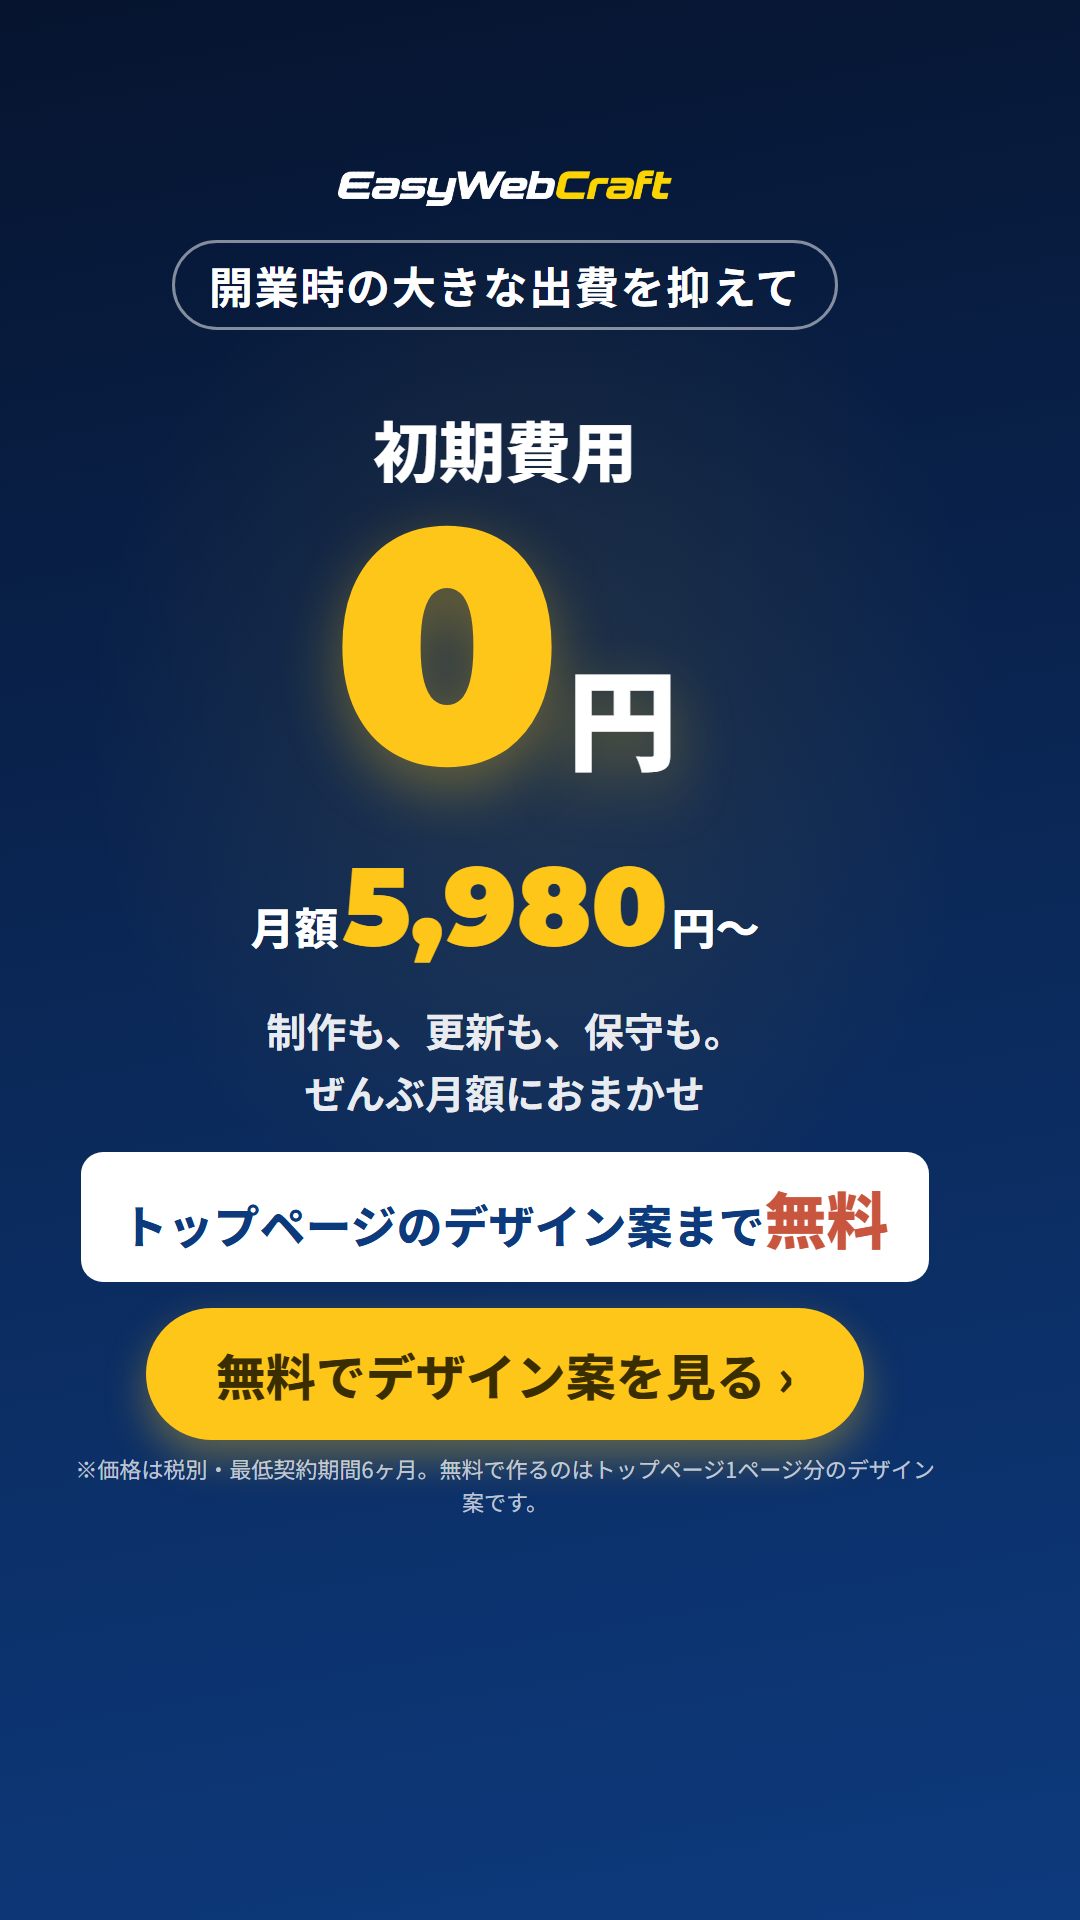
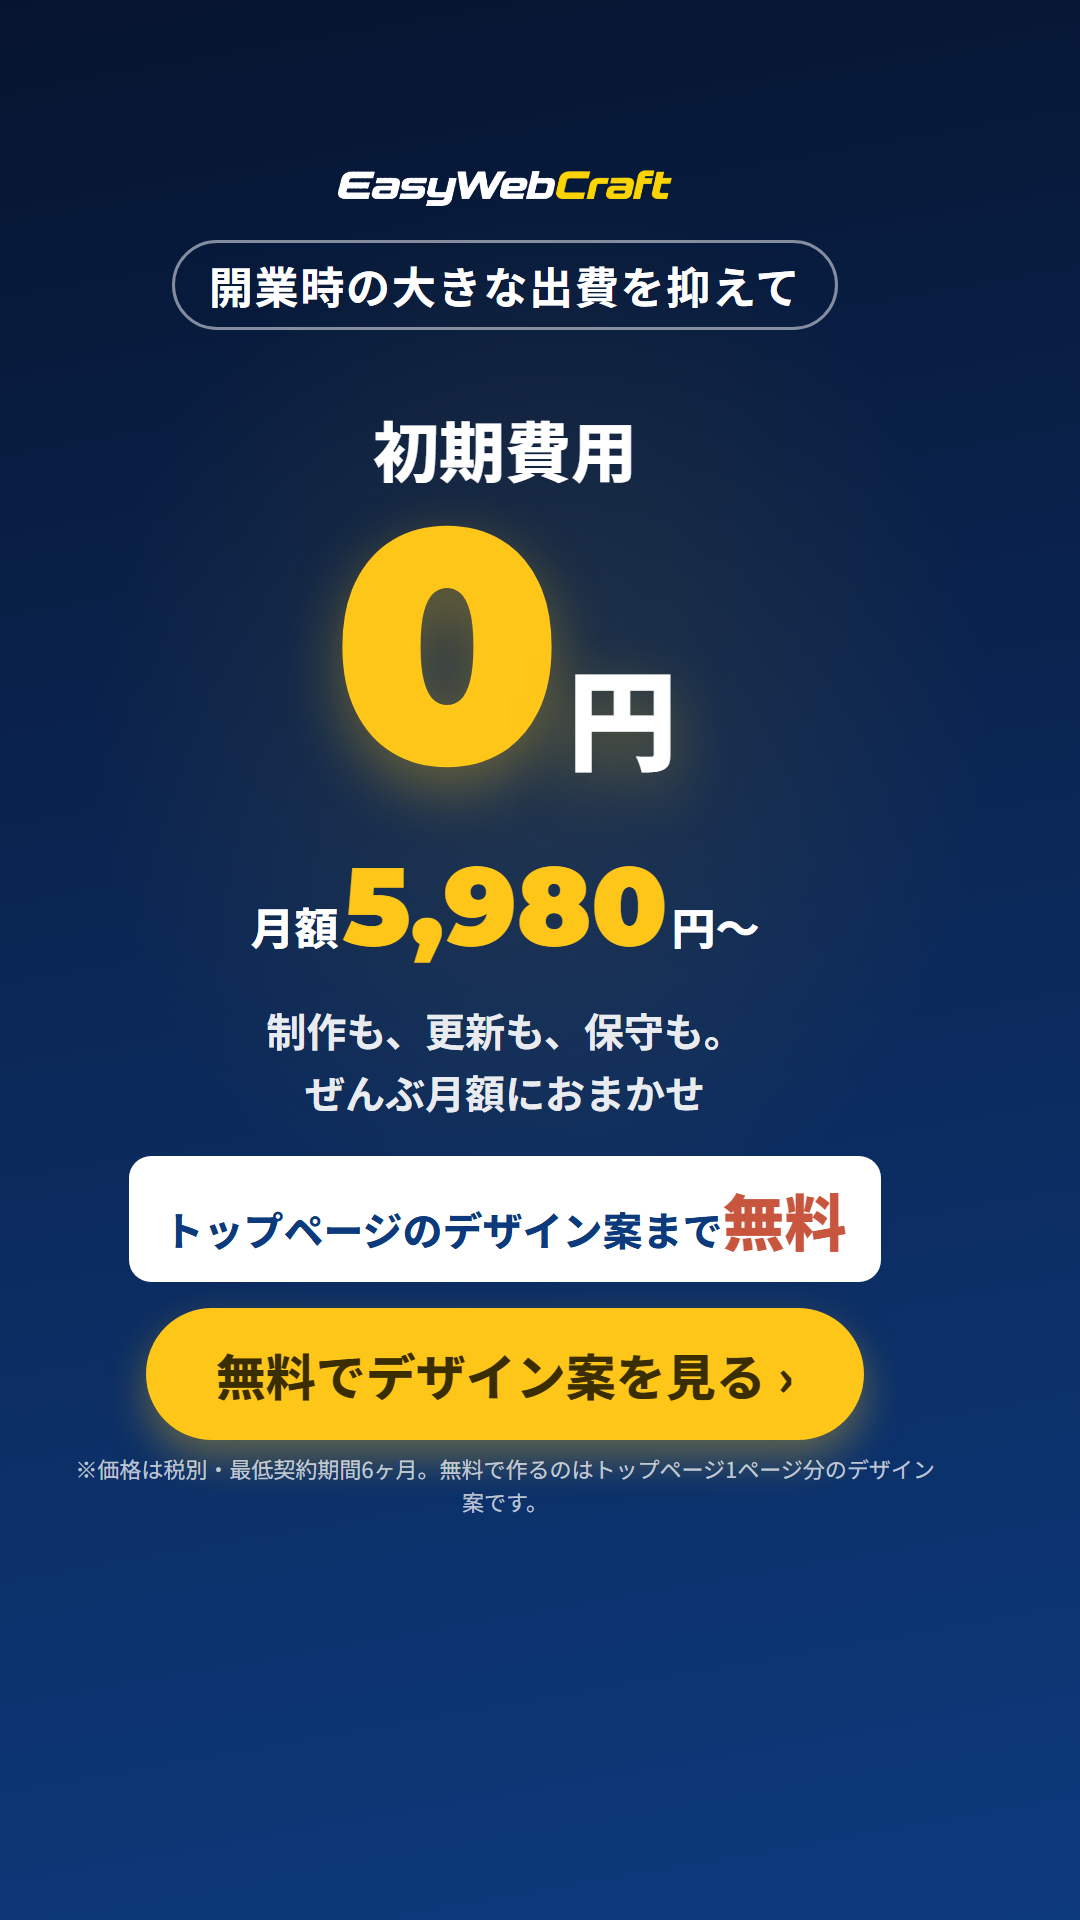
配信の優先順に整理し、無料の範囲を正確に
- 一覧を 1巡目（F基準・B・D・E・G・I）／2巡目（A・C・H・J）／予備（+1〜+4）に並べ替え
- 広告文案を2行程度に短縮
- 全広告の「デザイン案まで無料」を「トップページのデザイン案まで無料」に
- B:「今からまとめて任せられます」→「今からでも大丈夫」
- テストの進め方に、クリック→LP閲覧→フォーム開始→送信まで比べることを追記

Claude-Session: https://claude.ai/code/session_01G65TiHfa1BUco43NvNDLJF

Changed region(s): [[0.0611, 0.5938, 0.8861, 0.6875]]

diff --git a/index.html b/index.html
@@ -24,6 +24,7 @@ h2{font-size:1.1rem; margin:34px 0 14px}
 .tgt{font-size:.78rem; color:var(--muted); font-weight:700}
 .cap{font-size:.8rem}
 .cap span{font-weight:700; margin-right:4px}
+.base{display:inline-block; margin-left:6px; background:#1a8f3c; color:#fff; border-radius:999px; padding:0 8px; font-size:.72rem}
 .dl{font-size:.78rem; color:var(--muted)}
 .dl a{color:var(--navy); font-weight:700}
 .box{background:var(--card); border:1px solid var(--line); border-radius:14px; padding:16px 20px; margin-top:30px}
@@ -41,108 +42,115 @@ code{background:var(--bg); padding:0 5px; border-radius:4px}
     <a href="ogp.html">OGP画像のHTML</a>
   </div>
 
-  <h2>対象別の10本（A〜J）</h2>
+  <h2>1巡目：最初に配信する6本</h2>
+  <p class="lead">Fを基準に、B・D・E・G・Iの反応を比べる。</p>
   <div class="grid">
       <article class="card">
-        <a href="out/ad03.png" target="_blank" rel="noopener"><img src="jpg/ad03.jpg" alt="ホームページ、開業前に用意しませんか？" loading="lazy" width="1080" height="1920"></a>
-        <p class="no"><b>A</b>ホームページ、開業前に用意しませんか？</p>
-        <p class="tgt">開業前</p>
-        <p class="cap"><span>広告文案</span>開業前にホームページを。美容室・飲食店・こども支援など、業種に合わせて作ります。</p>
-        <p class="dl"><a href="out/ad03.png" download>PNGを保存</a>（ad03.png）</p>
+        <a href="out/ad01.png" target="_blank" rel="noopener"><img src="jpg/ad01.jpg" alt="ホームページのデザイン案を無料で作ります" loading="lazy" width="1080" height="1920"></a>
+        <p class="no"><b>F</b>ホームページのデザイン案を無料で作ります</p>
+        <p class="tgt">HP未作成（LPと完全一致）<span class="base">基準</span></p>
+        <p class="cap"><span>広告文案</span><br>開業前・開業したばかりの方へ。<br>デザイン案を無料で作ります。</p>
+        <p class="dl"><a href="out/ad01.png" download>PNGを保存</a>（ad01.png）</p>
       </article>
       <article class="card">
         <a href="out/ad11.png" target="_blank" rel="noopener"><img src="jpg/ad11.jpg" alt="開業したけど、HPまだ作ってない？" loading="lazy" width="1080" height="1920"></a>
         <p class="no"><b>B</b>開業したけど、HPまだ作ってない？</p>
         <p class="tgt">開業直後</p>
-        <p class="cap"><span>広告文案</span>開業したけど、HPまだ作ってない？ 今からでもまとめて任せられます。デザイン案まで無料。</p>
+        <p class="cap"><span>広告文案</span><br>開業したけどHPがない方へ。<br>今からでも大丈夫。</p>
         <p class="dl"><a href="out/ad11.png" download>PNGを保存</a>（ad11.png）</p>
-      </article>
-      <article class="card">
-        <a href="out/ad12.png" target="_blank" rel="noopener"><img src="jpg/ad12.jpg" alt="そろそろホームページ、作りませんか？" loading="lazy" width="1080" height="1920"></a>
-        <p class="no"><b>C</b>そろそろホームページ、作りませんか？</p>
-        <p class="tgt">開業1〜3ヶ月</p>
-        <p class="cap"><span>広告文案</span>開業して1〜3ヶ月。お店が回りはじめた今が、ホームページの作りどきです。</p>
-        <p class="dl"><a href="out/ad12.png" download>PNGを保存</a>（ad12.png）</p>
       </article>
       <article class="card">
         <a href="out/ad07.png" target="_blank" rel="noopener"><img src="jpg/ad07.jpg" alt="Instagramだけで大丈夫？" loading="lazy" width="1080" height="1920"></a>
         <p class="no"><b>D</b>Instagramだけで大丈夫？</p>
         <p class="tgt">Instagram中心</p>
-        <p class="cap"><span>広告文案</span>料金・営業時間・場所がひと目で分かるホームページを、開業時から。</p>
+        <p class="cap"><span>広告文案</span><br>Instagramだけで営業中の方へ。<br>公式HPも準備しませんか？</p>
         <p class="dl"><a href="out/ad07.png" download>PNGを保存</a>（ad07.png）</p>
       </article>
       <article class="card">
         <a href="out/ad13.png" target="_blank" rel="noopener"><img src="jpg/ad13.jpg" alt="名刺に載せるホームページ、ありますか？" loading="lazy" width="1080" height="1920"></a>
         <p class="no"><b>E</b>名刺に載せるホームページ、ありますか？</p>
         <p class="tgt">名刺作成済み</p>
-        <p class="cap"><span>広告文案</span>名刺に載せるホームページ、ありますか？ URLから事業の中身まで伝わるように。</p>
+        <p class="cap"><span>広告文案</span><br>名刺を作ったけどHPがない方へ。<br>URLから事業内容を伝えられます。</p>
         <p class="dl"><a href="out/ad13.png" download>PNGを保存</a>（ad13.png）</p>
-      </article>
-      <article class="card">
-        <a href="out/ad01.png" target="_blank" rel="noopener"><img src="jpg/ad01.jpg" alt="ホームページのデザイン案を無料で作ります" loading="lazy" width="1080" height="1920"></a>
-        <p class="no"><b>F</b>ホームページのデザイン案を無料で作ります</p>
-        <p class="tgt">HP未作成（LPと完全一致）★第一候補</p>
-        <p class="cap"><span>広告文案</span>開業前・開業したばかりの方へ。ホームページのデザイン案を無料でお作りします。</p>
-        <p class="dl"><a href="out/ad01.png" download>PNGを保存</a>（ad01.png）</p>
       </article>
       <article class="card">
         <a href="out/ad06.png" target="_blank" rel="noopener"><img src="jpg/ad06.jpg" alt="文章が書けない → それでも大丈夫です" loading="lazy" width="1080" height="1920"></a>
         <p class="no"><b>G</b>文章が書けない → それでも大丈夫です</p>
         <p class="tgt">文章が苦手</p>
-        <p class="cap"><span>広告文案</span>文章が書けない、写真がない。それでも大丈夫。話を聞いて下書きします。</p>
+        <p class="cap"><span>広告文案</span><br>文章も写真もなくて大丈夫。<br>話を聞いて下書きします。</p>
         <p class="dl"><a href="out/ad06.png" download>PNGを保存</a>（ad06.png）</p>
-      </article>
-      <article class="card">
-        <a href="out/ad04.png" target="_blank" rel="noopener"><img src="jpg/ad04.jpg" alt="初期費用0円" loading="lazy" width="1080" height="1920"></a>
-        <p class="no"><b>H</b>初期費用0円</p>
-        <p class="tgt">費用が不安</p>
-        <p class="cap"><span>広告文案</span>開業時の大きな出費を抑えて。初期費用0円、月額5,980円〜（税別）。</p>
-        <p class="dl"><a href="out/ad04.png" download>PNGを保存</a>（ad04.png）</p>
       </article>
       <article class="card">
         <a href="out/ad02.png" target="_blank" rel="noopener"><img src="jpg/ad02.jpg" alt="いきなり契約しなくてOK" loading="lazy" width="1080" height="1920"></a>
         <p class="no"><b>I</b>いきなり契約しなくてOK</p>
         <p class="tgt">制作会社が不安</p>
-        <p class="cap"><span>広告文案</span>相談もヒアリングもデザイン案も0円。見てから決めてください。</p>
+        <p class="cap"><span>広告文案</span><br>いきなり契約しなくてOK。<br>まずデザイン案を見てください。</p>
         <p class="dl"><a href="out/ad02.png" download>PNGを保存</a>（ad02.png）</p>
+      </article>
+  </div>
+
+  <h2>2巡目：テスト枠の4本</h2>
+  <p class="lead">1巡目の結果を見て入れ替える。Hは価格訴求、JはAと対象が近いのでどちらか一方でも可。</p>
+  <div class="grid">
+      <article class="card">
+        <a href="out/ad03.png" target="_blank" rel="noopener"><img src="jpg/ad03.jpg" alt="ホームページ、開業前に用意しませんか？" loading="lazy" width="1080" height="1920"></a>
+        <p class="no"><b>A</b>ホームページ、開業前に用意しませんか？</p>
+        <p class="tgt">開業前</p>
+        <p class="cap"><span>広告文案</span><br>開業前にHPを準備。<br>デザイン案を無料で作ります。</p>
+        <p class="dl"><a href="out/ad03.png" download>PNGを保存</a>（ad03.png）</p>
+      </article>
+      <article class="card">
+        <a href="out/ad12.png" target="_blank" rel="noopener"><img src="jpg/ad12.jpg" alt="そろそろホームページ、作りませんか？" loading="lazy" width="1080" height="1920"></a>
+        <p class="no"><b>C</b>そろそろホームページ、作りませんか？</p>
+        <p class="tgt">開業1〜3ヶ月</p>
+        <p class="cap"><span>広告文案</span><br>開業1〜3ヶ月。<br>そろそろHPを作りませんか？</p>
+        <p class="dl"><a href="out/ad12.png" download>PNGを保存</a>（ad12.png）</p>
+      </article>
+      <article class="card">
+        <a href="out/ad04.png" target="_blank" rel="noopener"><img src="jpg/ad04.jpg" alt="初期費用0円" loading="lazy" width="1080" height="1920"></a>
+        <p class="no"><b>H</b>初期費用0円</p>
+        <p class="tgt">価格訴求のテスト枠</p>
+        <p class="cap"><span>広告文案</span><br>開業時の出費を抑えて。<br>初期費用0円・月額5,980円〜</p>
+        <p class="dl"><a href="out/ad04.png" download>PNGを保存</a>（ad04.png）</p>
       </article>
       <article class="card">
         <a href="out/ad14.png" target="_blank" rel="noopener"><img src="jpg/ad14.jpg" alt="開業前から相談OK" loading="lazy" width="1080" height="1920"></a>
         <p class="no"><b>J</b>開業前から相談OK</p>
-        <p class="tgt">開業準備中</p>
-        <p class="cap"><span>広告文案</span>屋号もサービス内容もまだ整理中でも大丈夫。開業日から逆算して準備します。</p>
+        <p class="tgt">開業準備中（Aと近い）</p>
+        <p class="cap"><span>広告文案</span><br>屋号が未定でも大丈夫。<br>開業前から相談できます。</p>
         <p class="dl"><a href="out/ad14.png" download>PNGを保存</a>（ad14.png）</p>
       </article>
   </div>
 
   <h2>予備の4本</h2>
+  <p class="lead">2巡目以降、比較用に使う。+4（価格のみ）は後回し。</p>
   <div class="grid">
       <article class="card">
         <a href="out/ad05.png" target="_blank" rel="noopener"><img src="jpg/ad05.jpg" alt="「何を載せればいいかわからない」" loading="lazy" width="1080" height="1920"></a>
         <p class="no"><b>+1</b>「何を載せればいいかわからない」</p>
-        <p class="tgt">予備</p>
-        <p class="cap"><span>広告文案</span>何を載せればいいかわからなくても大丈夫。お話をうかがって一緒に整理します。</p>
+        <p class="tgt">構成の悩み（Gと比較）</p>
+        <p class="cap"><span>広告文案</span><br>何を載せればいいか分からない方へ。<br>一緒に整理します。</p>
         <p class="dl"><a href="out/ad05.png" download>PNGを保存</a>（ad05.png）</p>
       </article>
       <article class="card">
         <a href="out/ad08.png" target="_blank" rel="noopener"><img src="jpg/ad08.jpg" alt="開業すると、こんなことが起こります" loading="lazy" width="1080" height="1920"></a>
         <p class="no"><b>+2</b>開業すると、こんなことが起こります</p>
-        <p class="tgt">予備</p>
-        <p class="cap"><span>広告文案</span>名刺→Instagram→検索→「公式サイトはないの？」。事業内容を確認できるホームページがあると安心です。</p>
+        <p class="tgt">説明寄り</p>
+        <p class="cap"><span>広告文案</span><br>「公式サイトはないの？」と<br>聞かれる前に。</p>
         <p class="dl"><a href="out/ad08.png" download>PNGを保存</a>（ad08.png）</p>
       </article>
       <article class="card">
         <a href="out/ad09.png" target="_blank" rel="noopener"><img src="jpg/ad09.jpg" alt="「SNSだけ」から「公式サイトがある」へ" loading="lazy" width="1080" height="1920"></a>
         <p class="no"><b>+3</b>「SNSだけ」から「公式サイトがある」へ</p>
-        <p class="tgt">予備</p>
-        <p class="cap"><span>広告文案</span>「SNSだけ」から「公式サイトがある」へ。トップページのデザイン案まで無料です。</p>
+        <p class="tgt">改善後の姿（Dと比較）</p>
+        <p class="cap"><span>広告文案</span><br>SNSだけから、<br>公式サイトがある状態へ。</p>
         <p class="dl"><a href="out/ad09.png" download>PNGを保存</a>（ad09.png）</p>
       </article>
       <article class="card">
         <a href="out/ad10.png" target="_blank" rel="noopener"><img src="jpg/ad10.jpg" alt="ホームページが1日約200円から" loading="lazy" width="1080" height="1920"></a>
         <p class="no"><b>+4</b>ホームページが1日約200円から</p>
-        <p class="tgt">予備</p>
-        <p class="cap"><span>広告文案</span>ホームページが1日約200円から（月額5,980円・税別）。制作も更新もおまかせ。</p>
+        <p class="tgt">価格のみ・後回し</p>
+        <p class="cap"><span>広告文案</span><br>ホームページが1日約200円から。<br>（月額5,980円・税別）</p>
         <p class="dl"><a href="out/ad10.png" download>PNGを保存</a>（ad10.png）</p>
       </article>
   </div>
@@ -150,9 +158,10 @@ code{background:var(--bg); padding:0 5px; border-radius:4px}
   <div class="box">
     <h2 style="margin-top:0">テストの進め方</h2>
     <ol>
-      <li>A〜Jの10本をすべて同じLPに送り、開業前／開業直後／開業1〜3ヶ月のどの層が反応するかを1〜2週間で比べる</li>
+      <li>1巡目の6本（F・B・D・E・G・I）を同じLPに送る。Fを基準に比べる</li>
+      <li>比べる数字は「広告クリック → LP閲覧 → フォーム開始 → 問い合わせ送信」まで。クリック率だけで決めない</li>
       <li>フォームの「いまの状況」とあわせて、狙った層と実際の問い合わせ層のずれを確認する</li>
-      <li>反応の良い切り口を残し、予備の4本と入れ替えて2回目のテスト</li>
+      <li>反応の弱いものを2巡目の4本と入れ替える。2巡目はデザインの型（白背景・写真主体・比較型）も変えて比べる</li>
     </ol>
     <p style="margin:12px 0 0">全画像に注記（税別・最低契約期間6ヶ月・無料はトップページ1ページ分）入り。文言を直すときは <code>ads.html</code> を編集して書き出し直します。</p>
   </div>

diff --git a/ads.html b/ads.html
@@ -47,7 +47,7 @@ h1{font-weight:900; line-height:1.28; letter-spacing:.01em}
 .light .note{color:var(--muted)}
 .cta{display:inline-block; background:var(--accent); color:var(--accent-ink); font-size:50px; font-weight:800; border-radius:999px; padding:30px 70px; box-shadow:0 18px 40px rgba(255,198,26,.35); white-space:nowrap}
 .cta::after{content:" ›"; font-weight:900}
-.free{display:inline-block; background:#fff; color:var(--navy); font-size:46px; font-weight:800; border-radius:22px; padding:20px 40px}
+.free{display:inline-block; background:#fff; color:var(--navy); font-size:40px; font-weight:800; border-radius:22px; padding:18px 34px; white-space:nowrap}
 .free b{color:var(--ng); font-size:62px; font-weight:900}
 .sp{flex:1}
 .gap-s{height:26px} .gap-m{height:46px} .gap-l{height:70px}
@@ -178,7 +178,7 @@ h1{font-weight:900; line-height:1.28; letter-spacing:.01em}
     <div><div class="phone"><img src="img/m-kids.webp" alt=""></div><p>こども支援</p></div>
   </div>
   <div class="sp" style="min-height:30px"></div>
-  <p class="free">デザイン案まで<b>無料</b></p>
+  <p class="free">トップページのデザイン案まで<b>無料</b></p>
   <div class="gap-s"></div>
   <p class="cta">無料でデザイン案を見る</p>
 </div><p class="fine">※価格は税別・最低契約期間6ヶ月。無料で作るのはトップページ1ページ分のデザイン案です。</p></section>
@@ -281,7 +281,7 @@ h1{font-weight:900; line-height:1.28; letter-spacing:.01em}
     <figure class="after"><div class="phone"><img src="img/m-salon.webp" alt=""></div><figcaption class="y">AFTER</figcaption><div class="chips"><span>サービス</span><span>料金</span><span>営業時間</span><span>アクセス</span><span>お問い合わせ</span></div></figure>
   </div>
   <div class="sp" style="min-height:30px"></div>
-  <p class="free">デザイン案まで<b>無料</b></p>
+  <p class="free">トップページのデザイン案まで<b>無料</b></p>
   <div class="gap-s"></div>
   <p class="cta">無料でデザイン案を見る</p>
 </div><p class="fine">※価格は税別・最低契約期間6ヶ月。無料で作るのはトップページ1ページ分のデザイン案です。</p></section>
@@ -312,9 +312,9 @@ h1{font-weight:900; line-height:1.28; letter-spacing:.01em}
   <div class="gap-l"></div>
   <div class="bubbles"><div>Instagramだけで営業中</div><div>名刺にURLがない</div><div>「HPありますか？」と聞かれた</div></div>
   <div class="gap-l"></div>
-  <p class="sub">開業したばかりでも、<br>今から<span class="y">まとめて任せられます</span></p>
+  <p class="sub" style="font-size:46px">開業したばかりでも、<br><span class="y">今からでも大丈夫</span></p>
   <div class="sp" style="min-height:30px"></div>
-  <p class="free">デザイン案まで<b>無料</b></p>
+  <p class="free">トップページのデザイン案まで<b>無料</b></p>
   <div class="gap-s"></div>
   <p class="cta">無料でデザイン案を見る</p>
 </div><p class="fine">※価格は税別・最低契約期間6ヶ月。無料で作るのはトップページ1ページ分のデザイン案です。</p></section>
@@ -330,7 +330,7 @@ h1{font-weight:900; line-height:1.28; letter-spacing:.01em}
   <div class="gap-m"></div>
   <div class="mock" style="width:700px"><div class="pc"><img src="img/kids.webp" alt=""></div><div class="phone" style="width:190px"><img src="img/m-kids.webp" alt=""></div></div>
   <div class="sp" style="min-height:30px"></div>
-  <p class="free">デザイン案まで<b>無料</b></p>
+  <p class="free">トップページのデザイン案まで<b>無料</b></p>
   <div class="gap-s"></div>
   <p class="cta">無料でデザイン案を見る</p>
 </div><p class="fine">※価格は税別・最低契約期間6ヶ月。無料で作るのはトップページ1ページ分のデザイン案です。</p></section>
@@ -366,7 +366,7 @@ h1{font-weight:900; line-height:1.28; letter-spacing:.01em}
   <div class="gap-l"></div>
   <p class="sub">まだ何も決まっていなくても大丈夫<br>開業日から逆算して準備します</p>
   <div class="sp" style="min-height:30px"></div>
-  <p class="free">デザイン案まで<b>無料</b></p>
+  <p class="free">トップページのデザイン案まで<b>無料</b></p>
   <div class="gap-s"></div>
   <p class="cta">無料でデザイン案を見る</p>
 </div><p class="fine">※価格は税別・最低契約期間6ヶ月。無料で作るのはトップページ1ページ分のデザイン案です。</p></section>
